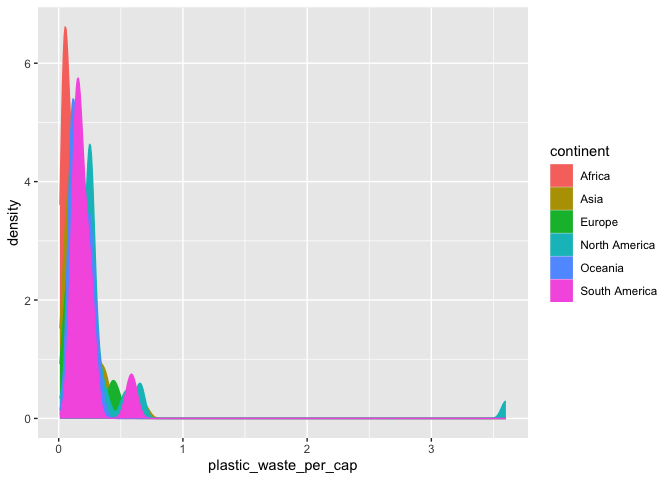
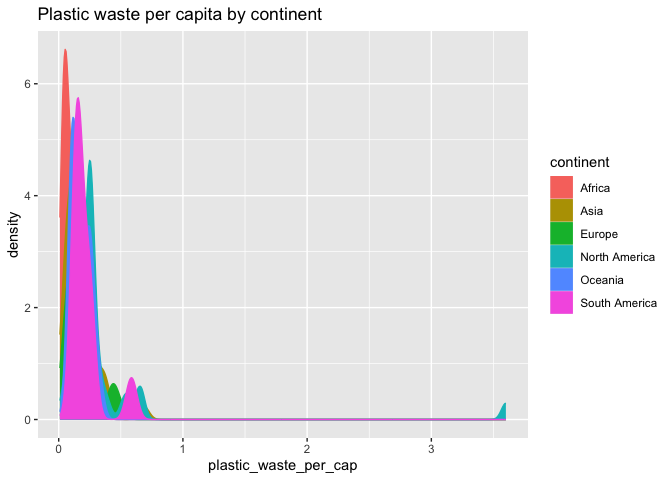
Added titles to  all plots

diff --git a/lab-02.md b/lab-02.md
@@ -17,11 +17,10 @@ plastic_waste <- read.csv("data/plastic-waste.csv")
 
 ### Exercise 1
 
-Remove this text, and add your answer for Exercise 1 here.
-
 ``` r
 ggplot(data = plastic_waste, aes(x = plastic_waste_per_cap)) +
-  geom_histogram(binwidth = 0.2)
+  geom_histogram(binwidth = 0.2) + 
+  labs(title = "Plastic waste per capita in 2010")
 ```
 
     ## Warning: Removed 51 rows containing non-finite outside the scale range
@@ -56,7 +55,8 @@ recycled, potentially due to inaccessibility of recycling.
 ``` r
 ggplot(plastic_waste, aes(x=plastic_waste_per_cap)) +
   geom_histogram() +
-  facet_wrap(~continent)
+  facet_wrap(~continent) +
+  labs(title = "Plastic waste per capita by country")
 ```
 
     ## `stat_bin()` using `bins = 30`. Pick better value with `binwidth`.
@@ -66,7 +66,7 @@ ggplot(plastic_waste, aes(x=plastic_waste_per_cap)) +
 
 ![](lab-02_files/figure-gfm/histogram-plastic-waste-percap-facet-by-country-1.png)<!-- -->
 
-#### Continent comparison of plastic waster per capita
+##### Continent comparison of plastic waster per capita
 
 Surprisingly it seems like the continents all share similar patterns
 except for South America which appears to have a drastically smaller
@@ -74,9 +74,12 @@ plastic waste per capita.
 
 ### Exercise 2
 
+#### Density plots
+
 ``` r
-ggplot(data = plastic_waste,aes(x = plastic_waste_per_cap, shape = continent)) +
-  geom_density()
+ggplot(data = plastic_waste, aes(x = plastic_waste_per_cap)) +
+  geom_density() + 
+  labs(title = "Plastic waste per capita by continent")
 ```
 
     ## Warning: Removed 51 rows containing non-finite outside the scale range
@@ -85,8 +88,22 @@ ggplot(data = plastic_waste,aes(x = plastic_waste_per_cap, shape = continent)) +
 ![](lab-02_files/figure-gfm/visualizing%20numerical%20data%20density%20plots-1.png)<!-- -->
 
 ``` r
+ggplot(data = plastic_waste,aes(x = plastic_waste_per_cap, shape = continent)) +
+  geom_density() + 
+  labs(title = "Plastic waste per capita by continent")
+```
+
+    ## Warning: Removed 51 rows containing non-finite outside the scale range
+    ## (`stat_density()`).
+
+![](lab-02_files/figure-gfm/visualizing%20numerical%20data%20density%20plots%20all%20continents-1.png)<!-- -->
+
+#### Density plots color coded by continent
+
+``` r
 ggplot(data = plastic_waste, mapping = aes(x = plastic_waste_per_cap, color = continent)) +
-  geom_density()
+  geom_density() + 
+  labs(title = "Plastic waste per capita by continent")
 ```
 
     ## Warning: Removed 51 rows containing non-finite outside the scale range
@@ -94,9 +111,12 @@ ggplot(data = plastic_waste, mapping = aes(x = plastic_waste_per_cap, color = co
 
 ![](lab-02_files/figure-gfm/desnity%20curve%20continents%20color%20coded-1.png)<!-- -->
 
+#### Density plots filled curves
+
 ``` r
 ggplot(data = plastic_waste, mapping = aes(x = plastic_waste_per_cap, color = continent, fill = continent)) +
-  geom_density()
+  geom_density() + 
+  labs(title = "Plastic waste per capita by continent")
 ```
 
     ## Warning: Removed 51 rows containing non-finite outside the scale range
@@ -108,7 +128,8 @@ ggplot(data = plastic_waste, mapping = aes(x = plastic_waste_per_cap, color = co
 
 ``` r
 ggplot(data = plastic_waste, mapping = aes(x = plastic_waste_per_cap, color = continent, fill = continent)) +
-  geom_density(alpha = .25)
+  geom_density(alpha = .25) + 
+  labs(title = "Plastic waste per capita by continent")
 ```
 
     ## Warning: Removed 51 rows containing non-finite outside the scale range
@@ -116,43 +137,177 @@ ggplot(data = plastic_waste, mapping = aes(x = plastic_waste_per_cap, color = co
 
 ![](lab-02_files/figure-gfm/density%20curve%20continents%20fill%20colored%20transparency-1.png)<!-- -->
 
-#### 2.1 Definition of color and fill by mapping aesthetics and definition of alpha levels as characteristic of plotting geom.
+##### 2.1 Definition of color and fill by mapping aesthetics and definition of alpha levels as characteristic of plotting geom.
+
+We defined color and fill as mapping aesthetics because we wanted the
+color and fill to be based on the values of a variable in the data, in
+this case continent. We defined alpha levels as characteristics of
+plotting geom because we wanted to modify how transparent the points
+were from 0-totally transparent to 1-totally solid. The alpha values
+were therefore not based on the values of a variable in the data so we
+defined the alpha level as a characteristic of the plotting geom.
 
 ### Exercise 3
 
-Remove this text, and add your answer for Exercise 3 here.
+``` r
+ggplot(data = plastic_waste,mapping = aes(x = continent, y = plastic_waste_per_cap)) +
+  geom_boxplot() + 
+  labs(title = "Plastic waste per capita vs. continent")
+```
+
+    ## Warning: Removed 51 rows containing non-finite outside the scale range
+    ## (`stat_boxplot()`).
+
+![](lab-02_files/figure-gfm/visualize%20plastic%20data%20side-by-side%20box%20plots-1.png)<!-- -->
+
+#### 3.1 Convert side-by-side box plots to violin plots
 
 ``` r
-# insert code here
+ggplot(plastic_waste, aes(x = continent, y=plastic_waste_per_cap))+
+  geom_violin() + 
+  labs(title = "Plastic waste per capita vs. continent")
 ```
+
+    ## Warning: Removed 51 rows containing non-finite outside the scale range
+    ## (`stat_ydensity()`).
+
+![](lab-02_files/figure-gfm/plastic-waste-violin-1.png)<!-- -->
+
+##### Violin plots compared to box plots
+
+In addition to reflecting summary statistics like the box plots, a
+unique feature of violin plots is that you can see the density of each
+variable (similar to a flipped histogram). Rather than showing bars to
+represent the data, the distribution itself is plotted turned. So if you
+look at the violin plot of South America you can see that the data is
+densest near the 0 plastic waste per capita.
+
+##### Features of box plots not displayed in violin plots
+
+In contrast to violin plots, box plots display the specific values of
+the summary statistics like the quartiles, median, and clearly
+distinguish outliers. The line inside the box represents the median
+value, and the bottom horizontal edge of the box represents the first
+quartile and the top horizontal edge of the box represents the third
+quartile.
 
 ### Exercise 4
 
-Remove this text, and add your answer for Exercise 4 here.
+#### 4.1 Visualize relationship between plastic waste per capita and mismanaged plastic waste per capita with a scatterplot
 
 ``` r
-# insert code here
+ggplot(plastic_waste, aes(x = mismanaged_plastic_waste_per_cap, y = plastic_waste_per_cap)) + 
+  geom_point() + 
+  labs(title = "Plastic waste per capita vs. mismanaged plastic waste per capita")
 ```
 
-``` r
-# insert code here
-```
+    ## Warning: Removed 51 rows containing missing values or values outside the scale range
+    ## (`geom_point()`).
+
+![](lab-02_files/figure-gfm/plastic-waste-mismanaged-scatterplot-1.png)<!-- -->
+
+##### 4.1 Description of relationship (scatterplot of relationship between plastic waste per capita and mismanaged plastic waste per capita)
+
+This scatterplot shows a weak, positive linear relationship between
+plastic waste per capita and mismanaged plastic waste per capita and one
+clear outlier in the data.
+
+#### 4.2 Color scatterplot points by continent
 
 ``` r
-# insert code here
+ggplot(plastic_waste, aes(x = mismanaged_plastic_waste_per_cap, y = plastic_waste_per_cap, color = continent)) + 
+  geom_point() + 
+  labs(title = "Plastic waste per capita vs. mismanaged plastic waste per capita")
 ```
 
+    ## Warning: Removed 51 rows containing missing values or values outside the scale range
+    ## (`geom_point()`).
+
+![](lab-02_files/figure-gfm/plastic-waste-mismanaged-continent-1.png)<!-- -->
+
+##### 4.2 Distinctions between continents with how plastic waste per capita and mismanaged plastic waste per capita are associated
+
+It seems that there is a stronger linear relationship for Africa
+compared to other countries. For example it seems as though North
+America has weaker association.
+
+#### 4.3 Relationship between plastic waste per capita and total population
+
 ``` r
-# insert code here
+ggplot(plastic_waste, aes(x = total_pop, y = plastic_waste_per_cap, color = continent)) + 
+  geom_point() + 
+  labs(title = "Plastic waste per capita vs. total population")
 ```
+
+    ## Warning: Removed 61 rows containing missing values or values outside the scale range
+    ## (`geom_point()`).
+
+![](lab-02_files/figure-gfm/plastic-waste-population-total-1.png)<!-- -->
+
+#### 4.3 Relationship between plastic waste per capita and coastal population
+
+``` r
+ggplot(plastic_waste, aes(x = coastal_pop , y = plastic_waste_per_cap, color = continent)) + 
+  geom_point()
+```
+
+    ## Warning: Removed 51 rows containing missing values or values outside the scale range
+    ## (`geom_point()`).
+
+![](lab-02_files/figure-gfm/plastic-waste-population-coastal-1.png)<!-- -->
+
+``` r
+  labs(title = "Plastic waste per capita vs. coastal population")
+```
+
+    ## $title
+    ## [1] "Plastic waste per capita vs. coastal population"
+    ## 
+    ## attr(,"class")
+    ## [1] "labels"
+
+##### 4.3
+
+The relationship between plastic waste per capita and total population
+and the relationship between plastic waste per capita and coastal
+population appear to be similiarly linearly associated. I would say that
+one is not more strongly linearly associated than the other.
 
 ### Exercise 5
 
-Remove this text, and add your answer for Exercise 5 here.
+``` r
+plastic_waste %>%
+  filter(plastic_waste_per_cap > 3.0)
+```
+
+    ##   code              entity     continent year gdp_per_cap plastic_waste_per_cap
+    ## 1  TTO Trinidad and Tobago North America 2010    31260.91                   3.6
+    ##   mismanaged_plastic_waste_per_cap mismanaged_plastic_waste coastal_pop
+    ## 1                             0.19                    94066     1358433
+    ##   total_pop
+    ## 1   1341465
 
 ``` r
-# insert code here
+ggplot(plastic_waste, aes(x = (coastal_pop/total_pop), y =plastic_waste_per_cap)) + 
+  geom_point(aes(color = continent)) +
+  xlim(0, 1.75) + 
+  ylim(0, 0.7) + 
+  labs(title = "Plastic waste vs. coastal population proportion", subtitle = "by continent", x = "Coastal population proportion (Coastal/total population)", y = "Plastic waste per capita") +
+  scale_color_viridis_d() + 
+  geom_smooth(method = "loess", col = "black")
 ```
+
+    ## `geom_smooth()` using formula = 'y ~ x'
+
+    ## Warning: Removed 62 rows containing non-finite outside the scale range
+    ## (`stat_smooth()`).
+
+    ## Warning: Removed 62 rows containing missing values or values outside the scale range
+    ## (`geom_point()`).
+
+![](lab-02_files/figure-gfm/recreate-viz-1.png)<!-- -->
+
+##### 5.1 Overall there is a weak positive association between plastic waste per capita and coastal population proportion. It appears that as there is a higher density of popualtion at the coast, there is in increase in plastic waste per capita. It may be that people who reside on the coast are more likely to consume more single-use plastic.
 
 ### References
 
